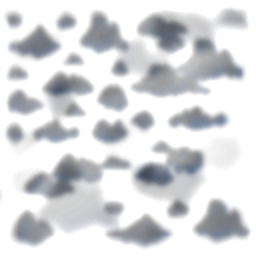
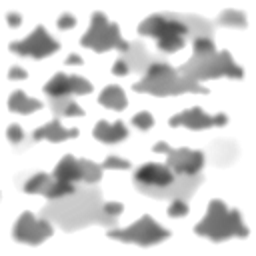
weather fixes

diff --git a/src/main/kotlin/ui/panels/TimeButtons.kt b/src/main/kotlin/ui/panels/TimeButtons.kt
@@ -13,7 +13,7 @@ import java.lang.Integer.min
 
 object TimeButtons : Panel() {
 
-    private val ffwdDelay = 60L
+    private val ffwdDelay = 30L
     private val playDivider = 6
 
     enum class State { PAUSE, PLAY, FFWD }
@@ -37,7 +37,7 @@ object TimeButtons : Panel() {
     private const val iconSize = 24
     private const val iconSizeHovered = 36
     private const val slop = 18
-    private const val wakeSlop = 70
+    private const val wakeSlop = 50
     private var spacing = 48
 
     private var contraction = height
@@ -119,7 +119,7 @@ object TimeButtons : Panel() {
     override fun mouseMovedTo(screenX: Int, screenY: Int) {
         val lx = screenX - this.x
         val ly = screenY - this.y
-        if (ly < this.height + 50 && lx >= 0 && lx < this.width && !Screen.scrollDragging) {
+        if (ly < this.height + slop && lx >= 0 && lx < this.width && !Screen.scrollDragging) {
             mouseInside = true
             if (!shouldShow()) return
             var newHover = -1

diff --git a/src/main/kotlin/render/batches/RainBatch.kt b/src/main/kotlin/render/batches/RainBatch.kt
@@ -47,10 +47,12 @@ class RainBatch : RenderBatch() {
         val x1 = Screen.tileXtoGlx(col + 1.0).toFloat()
         val y1 = 0f - Screen.tileYtoGly(row + 1.0).toFloat()
 
-        val tx0 = x0 % 1.0f
-        val ty0 = y0 % 1.0f
-        val tx1 = x1 % 1.0f
-        val ty1 = y1 % 1.0f
+        val scale = 2.5f / Screen.zoom.toFloat()
+
+        val tx0 = x0 * scale
+        val ty0 = y0 * scale
+        val tx1 = x1 * scale
+        val ty1 = y1 * scale
 
         floats.apply {
             addVertex(x0, y0, tx0, ty0, alpha)
@@ -67,7 +69,7 @@ class RainBatch : RenderBatch() {
         rainMask.bind()
         shader.setUniformi("u_RainMask", 0)
         shader.setUniformf("u_Time", (System.currentTimeMillis() - startTime).toFloat())
-        shader.setUniformf("u_Speed", 0.007f * Screen.zoom.toFloat())
+        shader.setUniformf("u_Speed", 0.005f)
     }
 
     override fun dispose() {

diff --git a/src/main/kotlin/render/shaders/rainFragShader.kt b/src/main/kotlin/render/shaders/rainFragShader.kt
@@ -11,12 +11,12 @@ fun rainFragShader() = """
     void main()
     {
         vec2 fallUV = vec2(v_RainUV.x, v_RainUV.y + u_Time * u_Speed);
-        vec2 fallUV2 = vec2(v_RainUV.x + 0.2, v_RainUV.y + 0.2 + u_Time * u_Speed * 0.7);
-        vec2 fallUV3 = vec2(v_RainUV.x + 0.4, v_RainUV.y + 0.4 + u_Time * u_Speed * 0.6);
+        vec2 fallUV2 = vec2(v_RainUV.x + 0.2, v_RainUV.y + 0.2 + u_Time * u_Speed * 0.41);
+        vec2 fallUV3 = vec2(v_RainUV.x + 0.46, v_RainUV.y + 0.46 + u_Time * u_Speed * 0.72);
         float sample = texture2D(u_RainMask, fallUV).r;
         float sample2 = texture2D(u_RainMask, fallUV2).r;
         float sample3 = texture2D(u_RainMask, fallUV3).r;
-        gl_FragColor = vec4(1.0, 1.0, 1.0, (sample + sample2) * v_RainAlpha * 0.12);
+        gl_FragColor = vec4(0.9, 0.9, 1.0, (sample + sample2 + sample3) * v_RainAlpha * 0.12);
     }
 
 """.trimIndent()

diff --git a/src/main/kotlin/render/shaders/cloudFragShader.kt b/src/main/kotlin/render/shaders/cloudFragShader.kt
@@ -9,7 +9,10 @@ fun cloudFragShader() = """
     void main()
     {
         vec4 sample = texture2D(u_CloudTexture, v_CloudUV);
-        gl_FragColor = vec4(sample.r, sample.g, sample.b, sample.a * v_CloudAlpha);
+        float cirrus = max(0.0, v_CloudAlpha - 0.1);
+        vec4 sample2 = texture2D(u_CloudTexture, vec2(v_CloudUV.x * 0.35, v_CloudUV.y * 0.42)) * cirrus;
+        float value = sample.r - sample2.r;
+        gl_FragColor = vec4(value, value, value, (sample.a + sample2.a) * v_CloudAlpha);
     }
 
 """.trimIndent()

diff --git a/src/main/kotlin/render/batches/CloudBatch.kt b/src/main/kotlin/render/batches/CloudBatch.kt
@@ -26,6 +26,7 @@ class CloudBatch : RenderBatch() {
 
     private val cloudTexture = Texture(FileHandle("${RESOURCE_FILE_DIR}mask_clouds.png"), true).apply {
         setFilter(Texture.TextureFilter.Nearest, Texture.TextureFilter.Nearest)
+        setWrap(Texture.TextureWrap.MirroredRepeat, Texture.TextureWrap.Repeat)
         log.info("Loaded weather texture mask_clouds.png ($width x $height)")
     }
 

diff --git a/src/main/kotlin/render/shaders/rainVertShader.kt b/src/main/kotlin/render/shaders/rainVertShader.kt
@@ -12,8 +12,10 @@ fun rainVertShader() = """
 
     void main()
     {
-        float rainu = a_Position.x * 3.0;
-        float rainv = a_Position.y * 3.0;
+        // float rainu = a_Position.x * 1.0;
+        // float rainv = a_Position.y * 1.0;
+        float rainu = a_RainUV.x;
+        float rainv = a_RainUV.y;
         
         v_RainUV = vec2(rainu, rainv);
         v_RainAlpha = a_RainAlpha;
